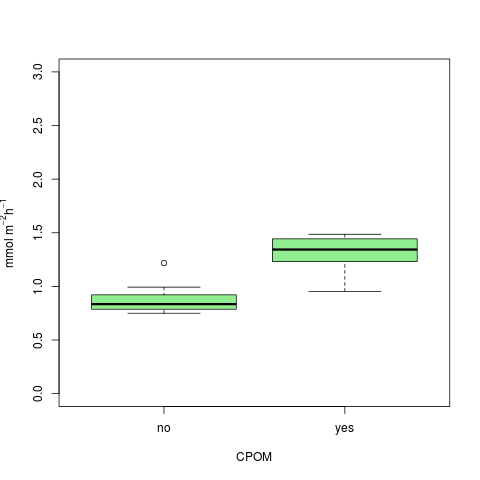
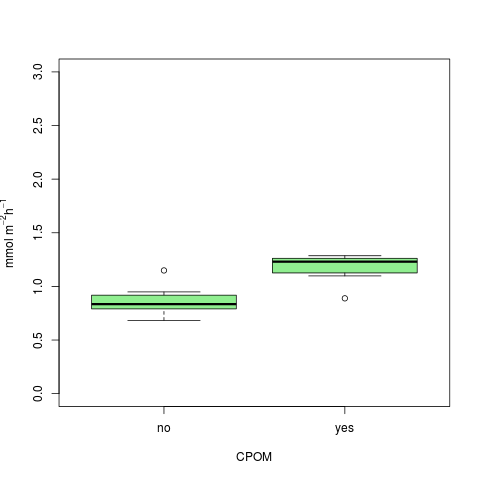
added 1 jul 2014 to sod analysis

Changed region(s): [[0.5625, 0.4688, 0.875, 0.625], [0.1875, 0.5938, 0.5, 0.6562]]

diff --git a/lab_notebook_entries/data_analysis/code/CPOM_Flux_Exp_SOD_analysis.md b/lab_notebook_entries/data_analysis/code/CPOM_Flux_Exp_SOD_analysis.md
@@ -10,6 +10,7 @@ This code it to analyze the SOD data from the treatments with and without CPOM a
     sod12 <- read.table("./data/sod_calculation_12jun2014.csv", header = T, sep = ",")
     sod17 <- read.table("./data/sod_calculation_17jun2014.csv", header = T, sep = ",")
     sod24 <- read.table("./data/sod_calculation_24jun2014.csv", header = T, sep = ",")
+    sod01 <- read.table("./data/sod_calculation_1jul2014.csv", header = T, sep = ",")
     botOM <- read.table("./data/CPOM_flux_bottleOM_initial.csv", header = T, sep = ",")
 
 ## Data Analysis
@@ -581,12 +582,153 @@ _Area SOD by Nutrient_
 
 ################################################################################
 
+## 1 July 2014 Run
+
+### Merge sediment OM calculation to SOD
+
+    sod01 <- merge(sod01, botOM, by.x = "CPOM", by.y = "CPOM")
+
+### Normalize flux to sediment OM and time
+
+    mmol.h01 <- sod01$dDO / sod01$incubation.h
+    mmol.h.OM01 <- mmol.h01 / sod01$tot.OM
+    ## convert to umol to make easier to read
+    umol.h.OM01 <- mmol.h.OM01 * 1000
+
+### Summarize OM normalized Data
+
+    summary(umol.h.OM01)
+
+~~~~
+
+    summary(umol.h.OM01)
+   Min. 1st Qu.  Median    Mean 3rd Qu.    Max. 
+ 0.3074  0.6258  0.7648  0.7490  0.8067  1.2120
+
+~~~~
+
+    stem(umol.h.OM01)
+
+~~~~
+
+The decimal point is 1 digit(s) to the left of the |
+
+   2 | 1
+   4 | 17
+   6 | 04835899
+   8 | 046
+  10 | 3
+  12 | 1
+
+~~~~
+
+### Comparison of OM normalized SOD by treatments
+
+    anova(lm(umol.h.OM01 ~ CPOM * nutrient, data = sod01))
+    hist(residuals(lm(umol.h.OM01 ~ CPOM * nutrient, data = sod01)))
+
+
+#### Output
+
+~~~~
+
+Analysis of Variance Table
+
+Response: umol.h.OM01
+              Df  Sum Sq  Mean Sq F value  Pr(>F)  
+CPOM           1 0.01561 0.015612  0.3938 0.54204  
+nutrient       1 0.17111 0.171108  4.3166 0.05987 .
+CPOM:nutrient  1 0.05089 0.050889  1.2838 0.27933  
+Residuals     12 0.47568 0.039640
+
+~~~~
+
+    plot(umol.h.OM01 ~ CPOM, data = sod01, ylab = expression(paste(mu, "mol h"^{-1}, "g OM"^{-1})), ylim = c(0, 2), col = "light green")
+    dev.copy(png, "./output/plots/CPOM_flux_OMflux_by_CPOM_1jul2014.png")
+    dev.off()
+
+![SOD by CPOM](../output/plots/CPOM_flux_OMflux_by_CPOM_1jul2014.png)
+
+_SOD by CPOM_
+
+    plot(umol.h.OM01  ~ nutrient, data = sod01, ylab = expression(paste(mu, "mol h"^{-1}, "g OM"^{-1})), ylim = c(0, 2), col = "orange")
+    dev.copy(png, "./output/plots/CPOM_flux_OMflux_by_nutrient_1jul2014.png")
+    dev.off()
+
+![SOD by Nutrient](../output/plots/CPOM_flux_OMflux_by_nutrient_1jul2014.png)
+
+_SOD by nutrient_
+
+### Comparison of Area normalized SOD by treatments
+
+### Summarize Area Normalized Data
+
+    summary(sod01$SOD)
+
+~~~~
+
+   Min. 1st Qu.  Median    Mean 3rd Qu.    Max. 
+ 0.3567  0.7389  0.8974  0.8788  0.9565  1.4070
+
+~~~~
+
+    stem(sod01$SOD)
+
+~~~~
+
+The decimal point is at the |
+
+  0 | 4
+  0 | 67788899999
+  1 | 0034
+
+~~~~
+
+### Comparison of the Area Normalized SOD by Treatment
+
+    anova(lm(SOD ~ CPOM * nutrient, data = sod01))
+    hist(residuals(lm(SOD ~ CPOM * nutrient, data = sod01)))
+
+
+#### Output
+
+~~~~
+
+Analysis of Variance Table
+
+Response: SOD
+              Df  Sum Sq  Mean Sq F value  Pr(>F)  
+CPOM           1 0.01135 0.011346  0.2105 0.65459  
+nutrient       1 0.23284 0.232839  4.3197 0.05979 .
+CPOM:nutrient  1 0.06721 0.067214  1.2470 0.28599  
+Residuals     12 0.64682 0.053902                  
+
+~~~~
+
+    plot(SOD ~ CPOM, data = sod01, ylab = expression(paste("mmol m"^{-2},"h"^{-1})), ylim = c(0, 3 ), col = "light green")
+    dev.copy(png, "./output/plots/CPOM_flux_Aflux_by_CPOM_1jul2014.png")
+    dev.off()
+
+![Area SOD by CPOM](../output/plots/CPOM_flux_Aflux_by_CPOM_1jul2014.png)
+
+_Area SOD by CPOM_
+
+    plot(SOD ~ nutrient, data = sod01, ylab = expression(paste("mmol m"^{-2},"h"^{-1})), ylim = c(0, 3 ), col = "orange")
+    dev.copy(png, "./output/plots/CPOM_flux_Aflux_by_Nutrient_1jul2014.png")
+    dev.off()
+
+![Area SOD by CPOM](../output/plots/CPOM_flux_Aflux_by_nutrient_1jul2014.png)
+
+_Area SOD by Nutrient_
+
+################################################################################
+
 ## Combine All Dates
 
 ### Average OM normalized SOD
 
-    sum.OMflux <- umol.h.OM10 + umol.h.OM12 + umol.h.OM17 + umol.h.OM24
-    mean.OMflux <- sum.OMflux / 4
+    sum.OMflux <- umol.h.OM10 + umol.h.OM12 + umol.h.OM17 + umol.h.OM24 + umol.h.OM01
+    mean.OMflux <- sum.OMflux / 5
 
 ### Summarize Mean OM Normalized Data
 
@@ -603,12 +745,11 @@ _Area SOD by Nutrient_
 Analysis of Variance Table
 
 Response: mean.OMflux
-              Df  Sum Sq Mean Sq F value    Pr(>F)    
-CPOM           1 0.37734 0.37734 38.8095 6.441e-05 ***
-nutrient       1 0.05635 0.05635  5.7960   0.03477 *  
-CPOM:nutrient  1 0.00000 0.00000  0.0001   0.99281    
-Residuals     11 0.10695 0.00972                      
-
+              Df   Sum Sq  Mean Sq F value    Pr(>F)    
+CPOM           1 0.218545 0.218545 22.5504 0.0006009 ***
+nutrient       1 0.076169 0.076169  7.8595 0.0171677 *  
+CPOM:nutrient  1 0.002819 0.002819  0.2909 0.6003812    
+Residuals     11 0.106605 0.009691                      
 ~~~~
 
     plot(mean.OMflux ~ CPOM, data = sod17, ylab = expression(paste("mmol m"^{-2},"h"^{-1})), ylim = c(0, 3 ), col = "light green")
@@ -630,8 +771,8 @@ _OM SOD by Nutrient_
 
 ### Average OM normalized SOD
 
-    sum.Aflux <- sod10$SOD + sod12$SOD + sod17$SOD
-    mean.Aflux <- sum.Aflux / 3
+    sum.Aflux <- sod10$SOD + sod12$SOD + sod17$SOD + sod24$SOD + sod01$SOD
+    mean.Aflux <- sum.Aflux / 5
 
 ### Summarize Mean OM Normalized Data
 
@@ -650,10 +791,10 @@ Analysis of Variance Table
 
 Response: mean.Aflux
               Df  Sum Sq Mean Sq F value    Pr(>F)    
-CPOM           1 0.66253 0.66253 31.0570 0.0001669 ***
-nutrient       1 0.14376 0.14376  6.7391 0.0248715 *  
-CPOM:nutrient  1 0.00002 0.00002  0.0008 0.9779204    
-Residuals     11 0.23466 0.02133                      
+CPOM           1 0.35260 0.35260 26.3390 0.0003272 ***
+nutrient       1 0.10468 0.10468  7.8193 0.0173894 *  
+CPOM:nutrient  1 0.00343 0.00343  0.2564 0.6226079    
+Residuals     11 0.14726 0.01339
 
 ~~~~
 
@@ -677,8 +818,8 @@ _OM Normalized SOD by Nutrient_
 
 #### Bind all dates
 
-    sod.tot <- rbind(sod10, sod12, sod17, sod24)
-    date <- c(rep("2014-06-10", 16), rep("2014-06-12", 16), rep("2014-06-17", 16), rep("2014-06-24", 16))
+    sod.tot <- rbind(sod10, sod12, sod17, sod24, sod01)
+    date <- c(rep("2014-06-10", 16), rep("2014-06-12", 16), rep("2014-06-17", 16), rep("2014-06-24", 16), rep("2014-07-01", 16))
     sod.tot <- data.frame(date, sod.tot)
 
 #### Determine days elapsed
@@ -687,7 +828,8 @@ _OM Normalized SOD by Nutrient_
     days12 <- as.numeric(difftime(sod.tot$date[sod.tot$date == "2014-06-12"], sod.tot$date[sod.tot$date == "2014-06-10"], units = "days"))
     days17 <- as.numeric(difftime(sod.tot$date[sod.tot$date == "2014-06-17"], sod.tot$date[sod.tot$date == "2014-06-10"], units = "days"))
     days24 <- as.numeric(difftime(sod.tot$date[sod.tot$date == "2014-06-24"], sod.tot$date[sod.tot$date == "2014-06-10"], units = "days"))
-    days.elap <- c(days10, days12, days17, days24)
+    days01 <- as.numeric(difftime(sod.tot$date[sod.tot$date == "2014-07-01"], sod.tot$date[sod.tot$date == "2014-06-10"], units = "days"))
+    days.elap <- c(days10, days12, days17, days24, days01)
 
     sod.tot <- data.frame(sod.tot, days.elap)
 

diff --git a/lab_notebook_entries/data_analysis/code/sod_calculation_1jul2014.md b/lab_notebook_entries/data_analysis/code/sod_calculation_1jul2014.md
@@ -1,0 +1,162 @@
+# Calculation of sediment oxygen demand for the CPOM Flux Exp
+
+## Date of Run 
+
+1 July 2014
+
+## Metadata
+
+### Collected by:
+
+KP 
+
+### Created on:
+
+2 July 2014
+
+### Modified:
+
+### Affiliation:
+
+Longwood University
+
+### Description: 
+
+The code for the calculation of sediment oxygen demand from the winkler titration data from the CPOM Flux Experiment
+
+## Variable Descriptions
+
+### Data Frames
+
+* sod = data frame with the raw winkler data (variable descriptions in "sod_data_metadata_DATE.md")
+
+* std = data frame with the variables for the winkler standardization (variable descriptions in "winkler_standardization_DATE.md")
+
+* repl = the data frame with the raw winkler data for the replacement water (variable descriptions in "repl_water_DO_DATE.md")
+
+* vial = the data frame with the vial volumes
+
+* sodT0 = the data frame the merges sod with vial to match the vial volumes with the specific samples at the T0 sampling
+
+* sodTF = the data frame the merges sod with vial to match the vial volumes with the specific samples at the TF sampling
+
+* repl = the data frame the merges repl with vial to match the vial volumes with the specific replacement water samples
+
+* flux = the data frame of relevant objects from the calculations
+
+    * DOpre = the [DO] in the BOD bottle before the replacement water is added (mmol/L)
+
+    * DOpost = the [DO] in the BOD bottle at the conclusion of the incubation (mmol/L)
+
+    * incubation.h = the duration of the incubation (h)
+
+    * SOD = the sediment oxygen demand (mmol/m^2/h)
+
+### R Objects
+
+* DOvol.T0 = the [DO] in the overlying water at T0 (ml/L)
+
+* DOvol.T0 = the [DO] in the overlying water at TF (ml/L)
+
+* replDOvol0 = the [DO] in the replacement water without added nutrients (ml/L)
+
+* replDOvolN = the [DO] in the replacement water with added nutrients (ml/L)
+
+* R = the ideal gas constant [(L atm)/(mol K)]
+
+* T = the incubation temperature (K)
+
+* P = the incubation atmospheric pressure (atm)
+
+* DOmmol.T0 = the [DO] of the T0 sample (mmol/L)
+
+* DOmmol.TF = the [DO] of the TF sample (mmol/L)
+
+* replDOmmol0 = the [DO] of the replacement water without added nutrients (mmol/L)
+
+* replDOmmolN = the [DO] of the replacement water with added nutrients (mmol/L)
+
+* DO.T0.0 = the [DO] of the BOD bottle once the replacement water was added to the bottle in the no-nutrient treatments (mmol/L)
+
+* DO.T0.N = the [DO] of the BOD bottle once the replacement water was added to the bottle in the added nutrient treatments (mmol/L)
+
+* DO.T0 = the [DO] of the BOD bottle once the replacement water was added to the bottles (mmol/L)
+
+* DOmmol.bot.T0 = the mmol of DO in the overlying water in the BOD bottles at T0 (mmol)
+
+* DOmmol.bot.TF = the mmol of DO in the overlying water in the BOD bottles at TF (mmol)
+
+* dDO = the change in mmol DO in the bottle during the incubation (mmol)
+
+* mmolO2.m2 = the change in mmol DO normalized to the area of the sediments in the bottle (mmol/m^2)
+
+* t0 = the time the bottle was sealed at the beginning of the incubation (YYYY-MM-DD HH:MM)
+
+* tF = the time the bottle was unsealed at the end of the incubation (YYYY-MM-DD HH:MM)
+
+* incubation.h = the duration of the incbation (h)
+
+* mmolO2.m2.h = the change in oxygen in the bottle during the incubation normalized to area and time (mmol/m^2/h)
+
+## R Code
+
+### Import Data
+
+    sod <- read.delim("./data/cpom_flux_sod_1jul2014.csv", header = T, sep = ",")
+    std <- read.delim("./data/winkler_standardization_1jul2014.csv", header = T,  sep = ",")
+    repl <- read.delim("./data/repl_water_1jul2014.csv", header = T,  sep = ",")
+    vial <- read.delim("./data/vial_volume_summer_2014.csv", header = T,  sep = ",")
+
+###Calculations
+
+    # DO Calculations
+    ## Add vial vial volumes to the sod data.dframe for T1
+    sodT0 <- merge(sod, vial, by.x = "vialT0", by.y = "vial")
+    ## Calculation of [DO] of T0 samples
+    DOvol.T0 <- (((sod$RmeasT0 - std$Rblk) * std$Vstd * std$Nstd * std$E) / ((std$Rstd - std$Rblk) * (sodT0$vol - std$Vreg))) - std$DOreg
+    ## Add vial vial volumes to the sod data.dframe for T1
+    sodTF <- merge(sod, vial, by.x = "vialTF", by.y = "vial")
+    ## Calculation of [DO] of TF samples
+    DOvol.TF <- (((sod$RmeasTF - std$Rblk) * std$Vstd * std$Nstd * std$E) / ((std$Rstd - std$Rblk) * (sodTF$vol - std$Vreg))) - std$DOreg
+    ## Add vial vial volumes to the sod data.dframe for T1
+    repl <- merge(repl, vial, by.x = "vial", by.y = "vial")
+    ## Calculation of replacement water [DO] no nutrients
+    replDOvol0 <- (((repl$Rmeas[repl$Nutrient == "no"] - std$Rblk) * std$Vstd * std$Nstd * std$E) / ((std$Rstd - std$Rblk) * (repl$vol[repl$Nutrient == "no"] - std$Vreg))) - std$DOreg
+    ## Calculation of the replacement water [DO] nutrients
+    replDOvolN <- (((repl$Rmeas[repl$Nutrient == "yes"] - std$Rblk) * std$Vstd * std$Nstd * std$E) / ((std$Rstd - std$Rblk) * (repl$vol[repl$Nutrient == "yes"] - std$Vreg))) - std$DOreg
+    ## Convert from ml/L to mmol/L
+    R <- 0.08205746 # ideal gas constant in (L atm)/(mol K)
+    T <- sod$temp + 273.15 # convert C to K
+    P <- sod$pressure * 0.03342 # convert in Hg to atm
+    DOmmol.T0 <- (P * DOvol.T0) / (R * T)
+    DOmmol.TF <- (P * DOvol.TF) / (R * T)
+    replDOmmol0 <- (P * replDOvol0) / (R * T)
+    replDOmmolN <- (P * replDOvolN) / (R * T)
+    # SOD Calculations
+    ## Calculation of T0 DO concentration
+    DO.T0.0 <- (DOmmol.T0[sod$Nutrient == "no"] * (1 - (sod$Replvol[sod$Nutrient == "no"] / sod$BODwatervol[sod$Nutrient == "no"]))) + (replDOmmol0[sod$Nutrient == "no"] * (sod$Replvol[sod$Nutrient == "no"] / sod$BODwatervol[sod$Nutrient == "no"]))
+    DO.T0.N <- (DOmmol.T0[sod$Nutrient == "yes"] * (1 - (sod$Replvol[sod$Nutrient == "yes"] / sod$BODwatervol[sod$Nutrient == "yes"]))) + (replDOmmol0[sod$Nutrient == "yes"] * (sod$Replvol[sod$Nutrient == "yes"] / sod$BODwatervol[sod$Nutrient == "yes"]))
+    DO.T0 <- c(DO.T0.0, DO.T0.N)
+    ## Calculation of mmols of oxygen in the bottles
+    DOmmol.bot.T0 <- DO.T0 * (sod$BODwatervol / 1000) # converting bottle volume from ml to L
+    DOmmol.bot.TF <- DOmmol.TF * (sod$BODwatervol / 1000) # converting bottle volume from ml to L
+    ## Calculation of change in mmol DO during incubation
+    dDO <- DOmmol.bot.T0 - DOmmol.bot.TF
+    ## Normalize by sediment area --> convert to per m2
+    mmolO2.m2 <- dDO / sod$A
+    ## Convert times to POSIXlt standard
+    t0 <- as.POSIXlt(sod$time0)
+    tF <- as.POSIXlt(sod$timeF)
+    ## Calculate the incubation hours
+    incubation.h <- tF - t0
+    incubation.h <- as.numeric(incubation.h)
+    ## Normalize by hours of incubation
+    mmolO2.m2.h <- mmolO2.m2 / incubation.h
+    ## Make data frame of relevant variables
+    flux <- data.frame(sod$bod, sod$CPOM, sod$Nutrient, sod$temp, dDO, DOmmol.T0, DOmmol.TF, DO.T0, incubation.h, mmolO2.m2.h)
+    names(flux) <- c("bod", "CPOM", "nutrient", "temp", "dDO", "DOpre", "DOpost", "DO.T0", "incubation.h", "SOD")
+
+    ## Make Data Table
+    write.table(flux, "./data/sod_calculation_1jul2014.csv", quote = F, row.names = F, sep = ",")
+    
+
